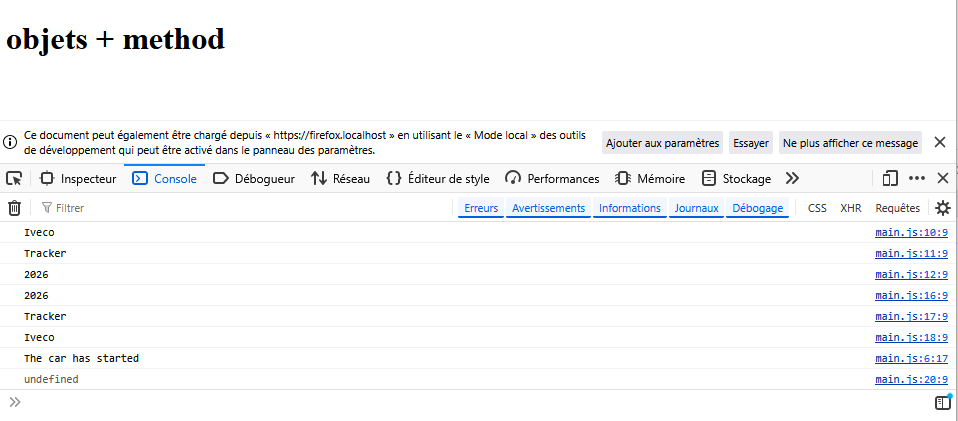
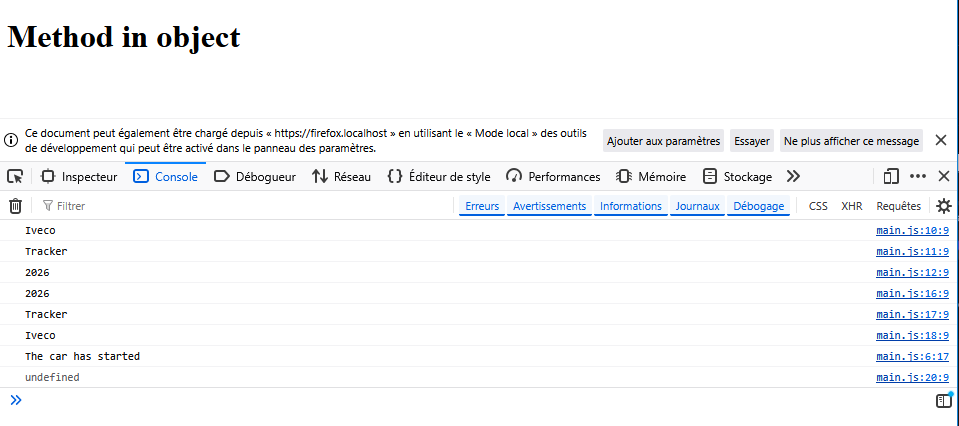
Submited exercise 9

Changed region(s): [[0.0, 0.0, 1.0, 1.0], [0.0, 0.0618, 0.2724, 0.1235]]

diff --git a/Exercise 9/index.html b/Exercise 9/index.html
@@ -7,7 +7,7 @@
 </head>
 <body>
 
-    <h1>objets + method</h1>
+    <h1>Method in object</h1>
     <script src="main.js"></script>
     
 </body>
